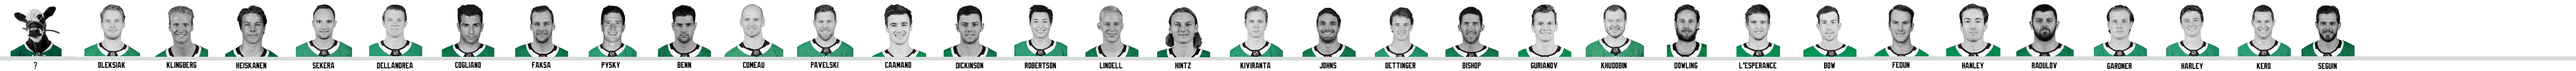
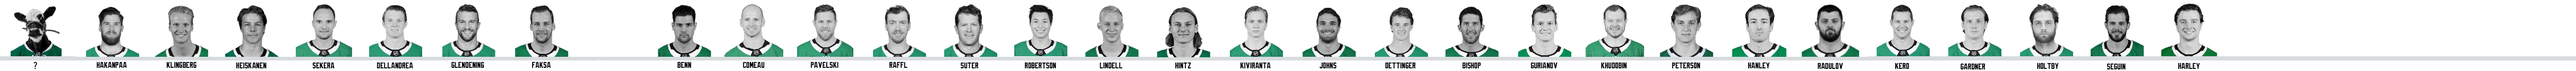
Update
Roster update and fixes

diff --git a/dallasstars.css b/dallasstars.css
@@ -422,7 +422,7 @@ body:not(.search-page) #search {
     content: "";
     display: block;
 	width: 320px;
-	height: 320px;
+	height: 220px;
 	margin-top: 5px;
 	background: url(%%sidebarimg%%);
 	border: 7px solid white; /* change back to 5px */
@@ -2079,33 +2079,32 @@ a[href*="#lhtlight"] { top: 35; right: 25px; transition: all 200ms ease; }
 .md  a[href$="03"] { background-position-x: calc(-135px * 2); }
 .md  a[href$="04"] { background-position-x: calc(-135px * 3); }
 .md  a[href$="05"] { background-position-x: calc(-135px * 4); }
-.md  a[href$="xx"] { background-position-x: calc(-135px * 5); }
-.md  a[href$="yy"] { background-position-x: calc(-135px * 6); }
-.md  a[href$="11"] { background-position-x: calc(-135px * 7); }
-.md  a[href$="12"] { background-position-x: calc(-135px * 8); }
-.md  a[href$="zz"] { background-position-x: calc(-135px * 9); }
-.md  a[href$="14"] { background-position-x: calc(-135px * 10); }
-.md  a[href$="15"] { background-position-x: calc(-135px * 11); }
-.md  a[href$="16"] { background-position-x: calc(-135px * 12); }
-.md  a[href$="18"] { background-position-x: calc(-135px * 13); }
-.md  a[href$="20"] { background-position-x: calc(-135px * 14); }
-.md  a[href$="21"] { background-position-x: calc(-135px * 15); }
-.md  a[href$="23"] { background-position-x: calc(-135px * 16); }
-.md  a[href$="24"] { background-position-x: calc(-135px * 17); }
-.md  a[href$="25"] { background-position-x: calc(-135px * 18); }
-.md  a[href$="35"] { background-position-x: calc(-135px * 19); }
-.md  a[href$="sj"] { background-position-x: calc(-135px * 20); }
-.md  a[href$="jo"] { background-position-x: calc(-135px * 21); }
-.md  a[href$="30"] { background-position-x: calc(-135px * 22); }
-.md  a[href$="34"] { background-position-x: calc(-135px * 23); }
-.md  a[href$="35"] { background-position-x: calc(-135px * 24); }
-.md  a[href$="40"] { background-position-x: calc(-135px * 25); }
-.md  a[href$="44"] { background-position-x: calc(-135px * 26); }
-.md  a[href$="47"] { background-position-x: calc(-135px * 27); }
-.md  a[href$="64"] { background-position-x: calc(-135px * 28); }
-.md  a[href$="bg"] { background-position-x: calc(-135px * 29); }
-.md  a[href$="70"] { background-position-x: calc(-135px * 30); }
-.md  a[href$="91"] { background-position-x: calc(-135px * 31); }
+.md  a[href$="td"] { background-position-x: calc(-135px * 5); }
+.md  a[href$="11"] { background-position-x: calc(-135px * 6); }
+.md  a[href$="12"] { background-position-x: calc(-135px * 7); }
+.md  a[href$="13"] { background-position-x: calc(-135px * 8); }
+.md  a[href$="14"] { background-position-x: calc(-135px * 9); }
+.md  a[href$="15"] { background-position-x: calc(-135px * 10); }
+.md  a[href$="16"] { background-position-x: calc(-135px * 11); }
+.md  a[href$="18"] { background-position-x: calc(-135px * 12); }
+.md  a[href$="20"] { background-position-x: calc(-135px * 13); }
+.md  a[href$="21"] { background-position-x: calc(-135px * 14); }
+.md  a[href$="23"] { background-position-x: calc(-135px * 15); }
+.md  a[href$="24"] { background-position-x: calc(-135px * 16); }
+.md  a[href$="25"] { background-position-x: calc(-135px * 17); }
+.md  a[href$="sj"] { background-position-x: calc(-135px * 18); }
+.md  a[href$="jo"] { background-position-x: calc(-135px * 19); }
+.md  a[href$="30"] { background-position-x: calc(-135px * 20); }
+.md  a[href$="34"] { background-position-x: calc(-135px * 21); }
+.md  a[href$="35"] { background-position-x: calc(-135px * 22); }
+.md  a[href$="40"] { background-position-x: calc(-135px * 23); }
+.md  a[href$="44"] { background-position-x: calc(-135px * 24); }
+.md  a[href$="47"] { background-position-x: calc(-135px * 25); }
+.md  a[href$="64"] { background-position-x: calc(-135px * 26); }
+.md  a[href$="bg"] { background-position-x: calc(-135px * 27); }
+.md  a[href$="70"] { background-position-x: calc(-135px * 28); }
+.md  a[href$="91"] { background-position-x: calc(-135px * 29); }
+.md  a[href$="55"] { background-position-x: calc(-135px * 30); }
 
 
 /* GT Teams
@@ -2401,14 +2400,15 @@ a[href*="#lhtlight"] { top: 35; right: 25px; transition: all 200ms ease; }
 .side .md  a[href$="jo"] { background-position: -1723px 0; }
 .side .md  a[href$="30"] { background-position: -1809px 0; }
 .side .md  a[href$="34"] { background-position: -1899px 0; }
-.side .md  a[href$="35"] { background-position: -1989px 0; }
+.side .md  a[href$="35"] { background-position: -1993px 0; }
 .side .md  a[href$="40"] { background-position: -2082px 0; }
 .side .md  a[href$="44"] { background-position: -2170px 0; }
 .side .md  a[href$="47"] { background-position: -2255px 0; }
 .side .md  a[href$="64"] { background-position: -2340px 0; }
 .side .md  a[href$="bg"] { background-position: -2425px 0; }
-.side .md  a[href$="70"] { background-position: -2510px 0; }
-.side .md  a[href$="91"]
+.side .md  a[href$="70"] { background-position: -2532px 0; }
+.side .md  a[href$="91"] { background-position: -2610px 0; }
+.side .md  a[href$="55"] { background-position: -2690px 0; }
 
 /* Sidebar Menu Icons */
 
